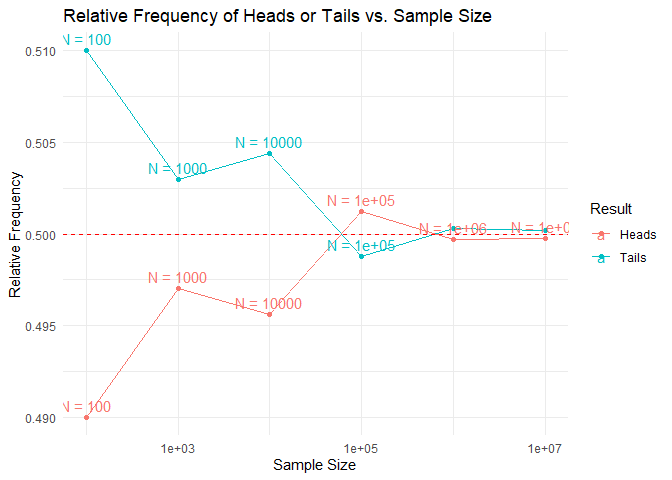
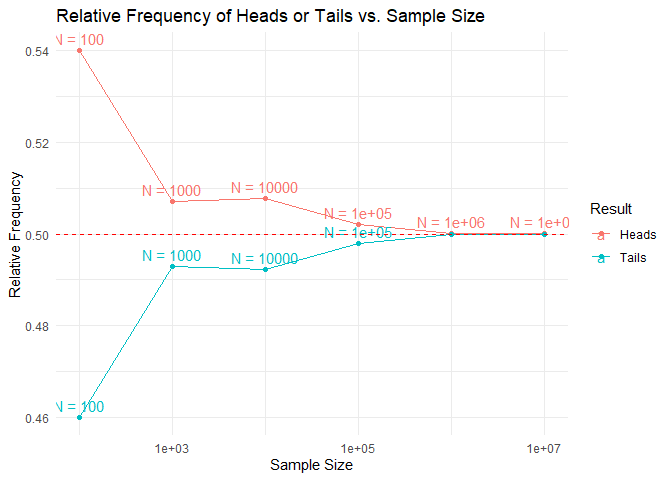
3rd

diff --git a/FA2-Lansangan/LANSANGAN_ROMAND-L-FA2.md b/FA2-Lansangan/LANSANGAN_ROMAND-L-FA2.md
@@ -54,14 +54,14 @@ a_df
 ```
 
     ##   result freq_100 freq_1000 freq_10000 freq_100000 freq_1000000 freq_10000000
-    ## 1  Heads       49       497       4956       50122       499708       4997826
-    ## 2  Tails       51       503       5044       49878       500292       5002174
+    ## 1  Heads       54       507       5078       50203       500072       5000963
+    ## 2  Tails       46       493       4922       49797       499928       4999037
     ##   rel_freq_100 rel_freq_1000 rel_freq_10000 rel_freq_100000 rel_freq_1000000
-    ## 1         0.49         0.497         0.4956         0.50122         0.499708
-    ## 2         0.51         0.503         0.5044         0.49878         0.500292
+    ## 1         0.54         0.507         0.5078         0.50203         0.500072
+    ## 2         0.46         0.493         0.4922         0.49797         0.499928
     ##   rel_freq_10000000
-    ## 1         0.4997826
-    ## 2         0.5002174
+    ## 1         0.5000963
+    ## 2         0.4999037
 
 Where freq_100 is equivalent to frequency under 100 experiment size—and
 so on.
@@ -100,7 +100,8 @@ ggplot(a_long_df, aes(x = sample_size, y = rel_freq, color = result)) +
 As one can notice, as the size of the experiment becomes larger, the
 relative frequency for both outcome (heads and tails) approaches 0.50.
 This goes to show that the probability of both heads and tails is
-$\textbf{0.50}$.
+$\textbf{0.50}$—making the initial statement, “head is 0.5 if a fair
+coin is tossed repeatedly,” $\textbf{true}$.
 
 #### b) red card is 0.5 if cards are drawn repeatedly with replacement from awell-shuffled deck;
 
@@ -150,14 +151,14 @@ b_df
 ```
 
     ##   result freq_100 freq_1000 freq_10000 freq_100000 freq_1000000 freq_10000000
-    ## 1    Red       52       494       4932       49751       500469       5000259
-    ## 2  Black       48       506       5068       50249       499531       4999741
+    ## 1    Red       46       503       4912       50208       500343       5001375
+    ## 2  Black       54       497       5088       49792       499657       4998625
     ##   rel_freq_100 rel_freq_1000 rel_freq_10000 rel_freq_100000 rel_freq_1000000
-    ## 1         0.52         0.494         0.4932         0.49751         0.500469
-    ## 2         0.48         0.506         0.5068         0.50249         0.499531
+    ## 1         0.46         0.503         0.4912         0.50208         0.500343
+    ## 2         0.54         0.497         0.5088         0.49792         0.499657
     ##   rel_freq_10000000
-    ## 1         0.5000259
-    ## 2         0.4999741
+    ## 1         0.5001375
+    ## 2         0.4998625
 
 Similar to the above item, freq_100 is equivalent to frequency under 100
 experiment size—and so on.
@@ -191,7 +192,9 @@ ggplot(b_long_df, aes(x = sample_size, y = rel_freq, color = result)) +
 
 Similar to the graph in the first item (a), both outcome seems to be
 approaching 0.50 and thus the probability for both red and black is
-$\textbf{0.50}$.
+$\textbf{0.50}$—making the initial statement, “red card is 0.5 if cards
+are drawn repeatedly with replacement from a well-shuffled deck,”
+$\textbf{true}$.
 
 #### c) an even number is 0.5 if a fair die is rolled repeatedly.
 
@@ -241,14 +244,14 @@ c_df
 ```
 
     ##   result freq_100 freq_1000 freq_10000 freq_100000 freq_1000000 freq_10000000
-    ## 1   Even       45       505       4966       50005       500008       5000368
-    ## 2    Odd       55       495       5034       49995       499992       4999632
+    ## 1   Even       53       523       5004       50208       499461       5002783
+    ## 2    Odd       47       477       4996       49792       500539       4997217
     ##   rel_freq_100 rel_freq_1000 rel_freq_10000 rel_freq_100000 rel_freq_1000000
-    ## 1         0.45         0.505         0.4966         0.50005         0.500008
-    ## 2         0.55         0.495         0.5034         0.49995         0.499992
+    ## 1         0.53         0.523         0.5004         0.50208         0.499461
+    ## 2         0.47         0.477         0.4996         0.49792         0.500539
     ##   rel_freq_10000000
-    ## 1         0.5000368
-    ## 2         0.4999632
+    ## 1         0.5002783
+    ## 2         0.4997217
 
 Similar to the above items, freq_100 is equivalent to frequency under
 100 experiment size—and so on.
@@ -281,7 +284,8 @@ ggplot(c_long_df, aes(x = sample_size, y = rel_freq, color = result)) +
 ![](LANSANGAN_ROMAND-L-FA2_files/figure-gfm/unnamed-chunk-12-1.png)<!-- -->
 Similar to the graphs of both numbers above, both outcome seems to be
 approaching 0.50 and thus the probability for both odd and even numbers
-is $\textbf{0.50}$.
+is $\textbf{0.50}$—making the initial statement, “an even number is 0.5
+if a fair die is rolled repeatedly,” $\textbf{true}$.
 
 #### Conclusion:
 
@@ -325,9 +329,9 @@ sec_df
 ```
 
     ##      result freq rel_freq
-    ## 1 Two Heads   26     0.26
+    ## 1 Two Heads   28     0.28
     ## 2 Two Tails   25     0.25
-    ## 3     Split   49     0.49
+    ## 3     Split   47     0.47
 
 #### Conclusion:
 
@@ -371,12 +375,12 @@ third_df
 ```
 
     ##   result freq  rel_freq
-    ## 1      1   97 0.1616667
-    ## 2      2  114 0.1900000
-    ## 3      3   91 0.1516667
-    ## 4      4   93 0.1550000
-    ## 5      5  102 0.1700000
-    ## 6      6  103 0.1716667
+    ## 1      1  105 0.1750000
+    ## 2      2   90 0.1500000
+    ## 3      3  103 0.1716667
+    ## 4      4   97 0.1616667
+    ## 5      5  108 0.1800000
+    ## 6      6   97 0.1616667
 
 #### Conclusion:
 
@@ -388,7 +392,7 @@ Nevertheless, based on the table above, in an experiment of rolling a
 die coins 600 times, the relative frequency for each outcome is
 relatively similar to each other.
 
-To show the validity of the claim the they are indeed around 0.1667,
+To show the validity of the claim that they are indeed around 0.1667,
 here is the average of rel_freq:
 
 ``` r
